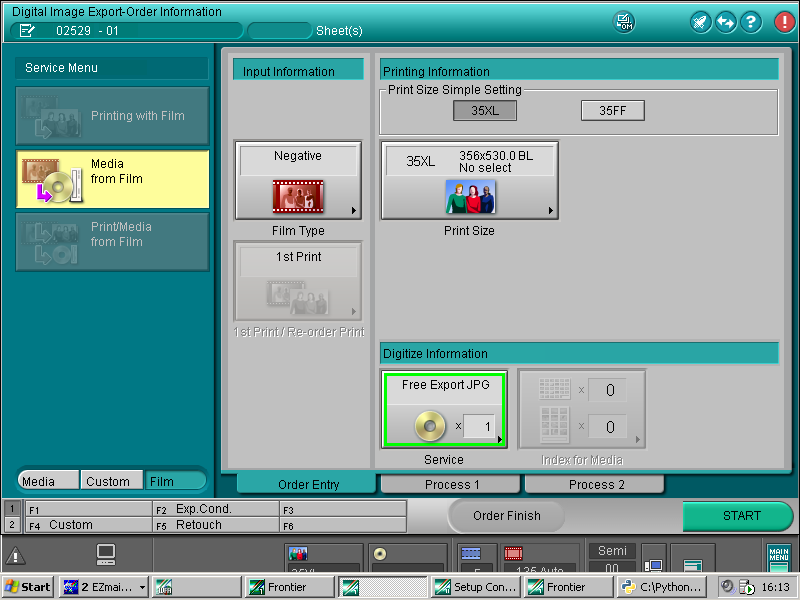
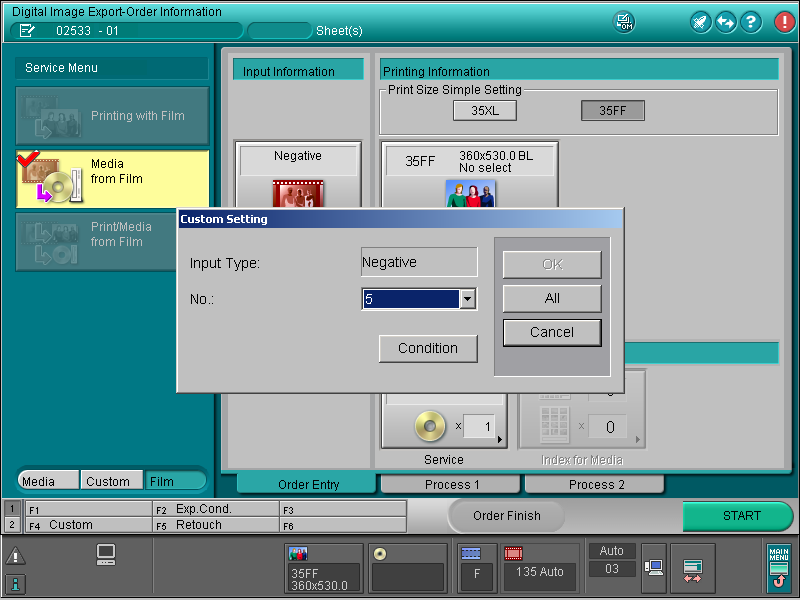
Added in "look" detection

diff --git a/src/app.js b/src/app.js
@@ -19,10 +19,9 @@ let accumulatedData = Buffer.alloc(0);
 
 let settings = {
     film_type: "colour",
-    look: "standard",
     border: 0,
     file_format: "JPEG",
-    state: "settings"
+    look: "standard",
 };
 
 function input() {

diff --git a/src/server.py b/src/server.py
@@ -9,23 +9,47 @@ from PIL import Image
 reference_images = {
     "film_type": "//Mac/Home/Documents/fujeasy/public/screenshots/film_type_true.png",
     "border": "//Mac/Home/Documents/fujeasy/public/screenshots/border_true.png",
-    "file_format": "//Mac/Home/Documents/fujeasy/public/screenshots/file_format_true.png"
+    "file_format": "//Mac/Home/Documents/fujeasy/public/screenshots/file_format_true.png",
+    "look_soft": "//Mac/Home/Documents/fujeasy/public/screenshots/look_soft_3.png",
+    "look_standard": "//Mac/Home/Documents/fujeasy/public/screenshots/look_standard_4.png",
+    "look_rich": "//Mac/Home/Documents/fujeasy/public/screenshots/look_rich_5.png",
 }
 
 monitored_regions = {
-    "film_type":    (240, 146, 117, 68),    # Example coordinates for film_type
-    "border":       (386, 146, 168, 68),    # Example coordinates for border
-    "file_format":  (386, 376, 116, 67)     # Example coordinates for file_format
-    #               (x-coordinate, y-coordinate, width, height)
+    "film_type":                (240, 146, 117, 68),    # Example coordinates for film_type
+    "border":                   (386, 146, 168, 68),    # Example coordinates for border
+    "file_format":              (386, 376, 116, 67),    # Example coordinates for file_format
+    "look_window":              (176, 207, 449, 187),
+    "look_dropdown":            (364, 290, 449, 95),
+    #                           (x-coordinate, y-coordinate, width, height)
 }
-1
+
+def get_look():
+    pyautogui.click(85, 520)  # Click on the "Custom" button
+    screenshot = take_screenshot()
+
+    look_types = {
+        "soft": reference_images["look_soft"],
+        "standard": reference_images["look_standard"],
+        "rich": reference_images["look_rich"]
+    }
+
+    for look, reference in look_types.items():
+        if compare_with_reference(screenshot, reference, monitored_regions["look_dropdown"]):
+            return look
+
+    pyautogui.click(550, 300)  # Click on the "All" button to commit the change
+    return "standard"  # or a default value if no match is found
+
+
 def derive_settings():
 
     screenshot = take_screenshot()
     settings = {
         "film_type": "colour" if compare_with_reference(screenshot, reference_images["film_type"], monitored_regions["film_type"]) else "bw",
         "border": 0 if compare_with_reference(screenshot, reference_images["border"], monitored_regions["border"]) else 1,
-        "file_format": "JPEG" if compare_with_reference(screenshot, reference_images["file_format"], monitored_regions["file_format"]) else "TIFF"
+        "file_format": "JPEG" if compare_with_reference(screenshot, reference_images["file_format"], monitored_regions["file_format"]) else "TIFF",
+        "look": get_look()
     }
     return settings
 
